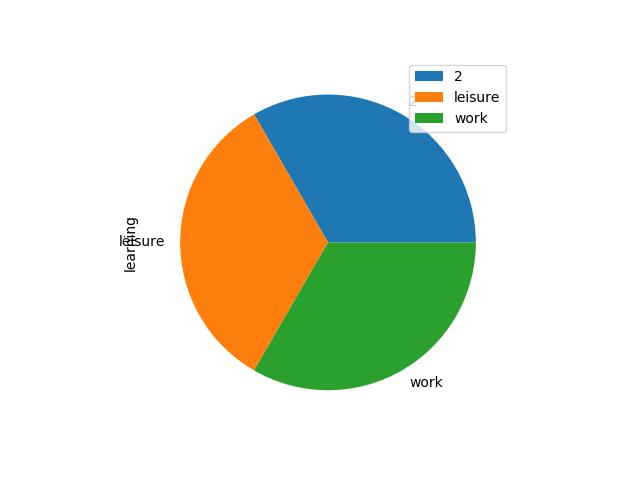
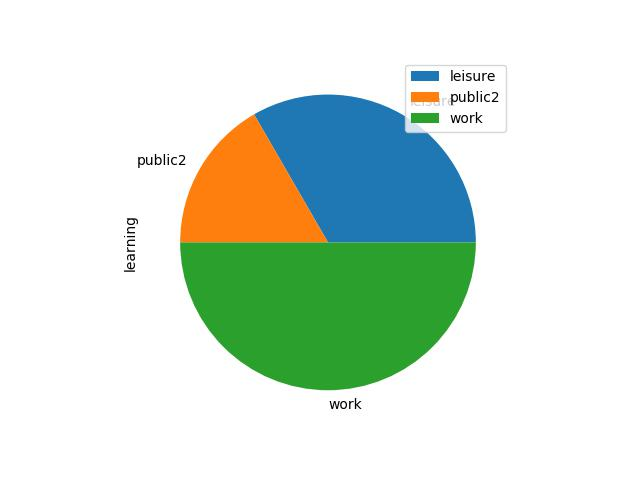
Register correctly boolean public

diff --git a/public/my_learn/views.py b/public/my_learn/views.py
@@ -69,10 +69,9 @@ def my_learn2(request):
     template = 'my_learn/my_learn.html'
     return render(request, template, context)
 
-def my_learn(request):
+def my_learn1(request):
 
     user,token=getUserUp(request)
-    uploadData(user,token,"learning_1","tag1","public1","learning_2","public2","tag2","learning_3","tag3","public3")
 
     if request.method == 'GET':
         form = ContactForm()
@@ -81,11 +80,24 @@ def my_learn(request):
         return render(request, template, context)
     else:
         form = ContactForm(request.POST)
+        uploadData(user,token,"learning_1","tag1","public1","learning_2","public2","tag2","learning_3","tag3","public3")
 
-        if form.is_valid():
-            public1 = "1"#form.cleaned_data['public1']
-            public2 = "2"#form.cleaned_data['public2']
-            public3 = "3"#form.cleaned_data['public3']
+        public1=request.POST.get("public1")
+        public2=request.POST.get("public2")
+        public3=request.POST.get("public3")
+        tag1=request.POST.get("tag1")
+        tag2=request.POST.get("tag2")
+        tag3=request.POST.get("tag3")
+        learning_1=request.POST.get("learning_1")
+        learning_2=request.POST.get("learning_2")
+        learning_3=request.POST.get("learning_3")
+        uploadData(user,token,learning_1,tag1,public1,learning_2,public2,tag2,learning_3,tag3,public3)
+
+        if form.is_valid(): #TODO
+
+            public1 = False #form.cleaned_data['public1']
+            public2 = False #form.cleaned_data['public2']
+            public3 = False #form.cleaned_data['public3']
             tag1 = form.cleaned_data['tag1']
             tag2 = form.cleaned_data['tag2']
             tag3 = form.cleaned_data['tag3']
@@ -100,6 +112,51 @@ def my_learn(request):
 
             except BadHeaderError:
                 return HttpResponse('Invalid header found. ')
+                    #return redirect('contact_me:email_success')
+
+        context = {'form': form}
+        template = 'my_services/my_services.html'
+        return render(request, template, context)
+
+def get_boolean_from_request(request, key, method='POST'):
+	" gets the value from request and returns it's boolean state "
+	value = getattr(request, method).get(key, False)
+
+	if value == 'False' or value == 'false' or value == '0' or value == 0:
+		value = False
+	elif value:
+		value = True
+	else:
+		value = False
+
+	return value
+
+def my_learn(request):
+
+    user,token=getUserUp(request)
+
+    if request.method == 'GET':
+        form = ContactForm()
+        context = {'form': form}
+        template = 'my_learn/my_learn.html'
+        return render(request, template, context)
+    else:
+        form = ContactForm(request.POST)
+        public1=get_boolean_from_request(request,"public1")
+        public2=get_boolean_from_request(request,"public2")
+        public3=get_boolean_from_request(request,"public3")
+        tag1=request.POST.get("tag1")
+        tag2=request.POST.get("tag2")
+        tag3=request.POST.get("tag3")
+        learning_1=request.POST.get("learning_1")
+        learning_2=request.POST.get("learning_2")
+        learning_3=request.POST.get("learning_3")
+        try:
+            uploadData(user,token,learning_1,tag1,public1,learning_2,tag2,public2,learning_3,tag3,public3)
+            return redirect('my_services:my_services')
+
+        except BadHeaderError:
+            return HttpResponse('Invalid header found. ')
                     #return redirect('contact_me:email_success')
 
         context = {'form': form}

diff --git a/public/my_learn/forms.py b/public/my_learn/forms.py
@@ -18,6 +18,6 @@ class ContactForm(forms.Form):
     tag1 = forms.ChoiceField(label="tag1", required=True,choices=TAGS)
     tag2 = forms.ChoiceField(label="tag2", required=True,choices=TAGS)
     tag3 = forms.ChoiceField(label="tag3", required=True,choices=TAGS)
-    #public1 = forms.ChoiceField(label="tag1", required=True)
-    #public2 = forms.ChoiceField(label="tag2", required=True,choices=TAGS)
-    #public3 = forms.ChoiceField(label="tag3", required=True,choices=TAGS)
+    public1 = forms.CheckboxInput()
+    public2 = forms.CheckboxInput()
+    public3 = forms.CheckboxInput()
